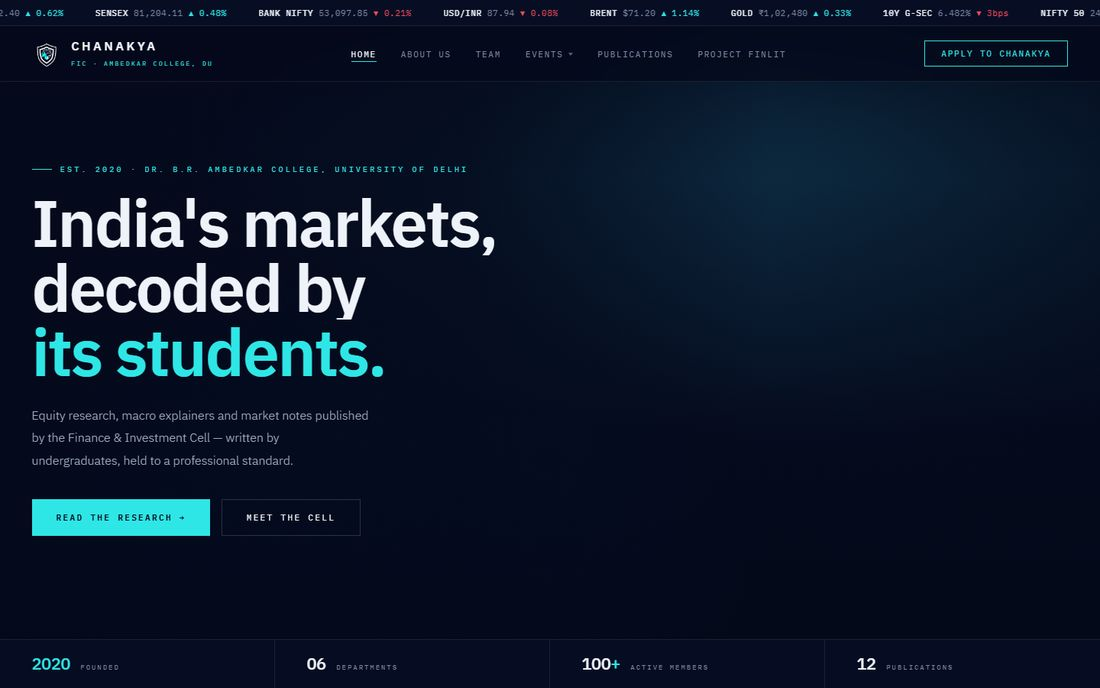
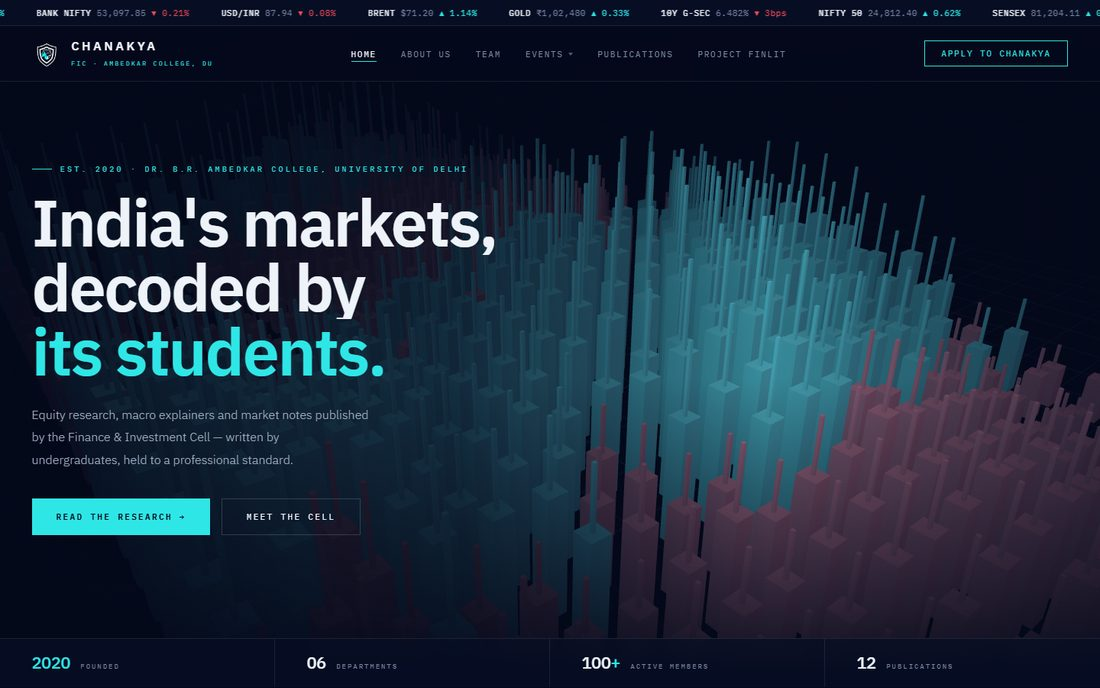
Fix invisible CTA labels; correct Turiya case; better Chanakya/Turiya shots
Bug: .post-body a{color:var(--red)} was added for blog prose links, but its
specificity (0,1,1) beats .btn-red and .cs-live (0,1,0). Every CTA button
inside a post body rendered its label the same red as its own background —
invisible text across 17 pages. Scoped with :not(.btn):not(.cs-live).

Screenshots: the earlier headless captures were wrong. Chanakya's 3D chart
never rendered because WebGL was disabled, and Turiya captured a newsletter
modal instead of the site. Recaptured with --enable-webgl, and drove Chrome
over CDP to dismiss the overlay before shooting.

That also means the Turiya case study was factually wrong — it claimed the
site was in pre-launch behind a waitlist gate. It is not. Removed that, and
added a section on the rituals system and the Khumari counter, which is what
the hero actually shows.

Homepage:
- Hero sub is now a real sentence with a rotating tail; the rotator still
  listed "Premium Branding" after Brand was dropped as a service.
- Added a published-pricing line under What We Do.
- Specialisms demoted from a card grid to a slim link row — the page had
  three consecutive four-card grids and read as one undifferentiated block.

diff --git a/index.html b/index.html
@@ -99,7 +99,7 @@
       <span class="ln"><span>Let Yours</span></span>
       <span class="ln"><span class="fillin">Be Felt.</span></span>
     </h1>
-    <p class="h-sub"><span class="hsub-rot" id="heroRotate">For Brands that want more</span></p>
+    <p class="h-sub">A Delhi studio building <span class="hsub-rot" id="heroRotate">animated websites.</span><br><span class="h-sub-fix">Custom-coded, no templates, every price published.</span></p>
     <div class="h-cta">
       <a href="work.html" class="btn btn-red">See The Work →</a>
       <a href="services.html" class="btn btn-ghost">Services</a>
@@ -161,6 +161,7 @@
       <div>
         <div class="eyebrow">What We Do</div>
         <h2>Four Disciplines.<br>One <span class="red">Studio.</span></h2>
+        <p class="sec-sub">Every price is published — Launch ₹7,500 · Signature ₹15,000 · Flagship ₹32,500.</p>
       </div>
       <a href="services.html" class="sec-link">Full Pricing ↗</a>
     </div>
@@ -193,24 +194,14 @@
   </section>
 
 
-  <!-- ── SPECIALISMS ── -->
-  <section class="home-sec">
-    <div class="sec-head">
-      <div>
-        <div class="eyebrow">Specialisms</div>
-        <h2>What We're Known <span class="red">For.</span></h2>
-      </div>
-      <a href="work.html" class="sec-link">See The Work ↗</a>
-    </div>
-    <div class="flow-row">
-      <a class="flow" href="animated-websites.html"><div class="flow-n">— 01</div><div class="flow-t">Animated Websites</div>
-        <p class="flow-d">Scroll-driven motion, cinematic transitions and physics — written by hand, not imported from a library.</p></a>
-      <a class="flow" href="interactive-websites.html"><div class="flow-n">— 02</div><div class="flow-t">Interactive &amp; Immersive</div>
-        <p class="flow-d">Gated entries, gamified systems and WebGL worlds. Sites people do something in, not scroll past.</p></a>
-      <a class="flow" href="fashion-website-design.html"><div class="flow-n">— 03</div><div class="flow-t">Fashion &amp; Streetwear</div>
-        <p class="flow-d">Editorial product pages and drop mechanics, plus the returns systems that survive launch day.</p></a>
-      <a class="flow" href="portfolio-website-design.html"><div class="flow-n">— 04</div><div class="flow-t">Portfolios &amp; Creatives</div>
-        <p class="flow-d">For designers, artists and studios whose next job depends on ninety seconds with the work.</p></a>
+  <!-- ── SPECIALISMS — a slim row, deliberately not a third card grid ── -->
+  <section class="home-sec spec-sec">
+    <div class="spec-lead">Known For</div>
+    <div class="spec-row">
+      <a href="animated-websites.html">Animated Websites <i>↗</i></a>
+      <a href="interactive-websites.html">Interactive &amp; Immersive <i>↗</i></a>
+      <a href="fashion-website-design.html">Fashion &amp; Streetwear <i>↗</i></a>
+      <a href="portfolio-website-design.html">Portfolios &amp; Creatives <i>↗</i></a>
     </div>
   </section>
 

diff --git a/style.css b/style.css
@@ -431,8 +431,11 @@ footer{border-top:1px solid var(--line);padding:46px max(28px,calc((100vw - 1280
 .post-body li{font-family:'Fraunces',serif;font-weight:400;font-size:1.08rem;line-height:1.8;
   color:#b4b4ba;margin-bottom:11px;position:relative;}
 .post-body li::before{content:'—';position:absolute;left:-20px;color:var(--quiet);}
-.post-body a{color:var(--red);text-decoration:underline;text-underline-offset:3px;}
-.post-body a:hover{color:var(--white);}
+/* Prose links only. Without the :not(), this rule's specificity (0,1,1) beats
+   .btn-red and .cs-live (0,1,0) and paints every CTA button's label the same red
+   as its own background — invisible text on 17 pages. */
+.post-body a:not(.btn):not(.cs-live){color:var(--red);text-decoration:underline;text-underline-offset:3px;}
+.post-body a:not(.btn):not(.cs-live):hover{color:var(--white);}
 .post-table{width:100%;border-collapse:collapse;margin:26px 0;font-family:'Barlow',sans-serif;}
 .post-table th,.post-table td{text-align:left;padding:13px 14px;border-bottom:1px solid var(--line);font-size:.92rem;}
 .post-table th{font-family:'DM Mono',monospace;font-size:var(--label-sm);letter-spacing:.18em;
@@ -504,3 +507,21 @@ footer{border-top:1px solid var(--line);padding:46px max(28px,calc((100vw - 1280
 .f-col a{display:block;font-family:'Barlow',sans-serif;font-weight:300;font-size:.87rem;
   color:var(--muted);padding:4px 0;transition:color var(--t1) var(--e);}
 .f-col a:hover{color:var(--red);}
+
+/* homepage: sub-line under a section heading */
+.sec-sub{font-family:var(--sub);font-weight:300;font-size:.95rem;line-height:1.6;
+  color:var(--muted);margin-top:12px;max-width:520px;}
+.h-sub-fix{color:var(--muted);}
+
+/* homepage: specialism links — a quiet row so it does not read as a third card grid */
+.spec-sec{padding:0 0 76px;}
+.spec-lead{font-family:'DM Mono',monospace;font-size:var(--label-sm);letter-spacing:.28em;
+  text-transform:uppercase;color:var(--quiet);margin-bottom:16px;}
+.spec-row{display:flex;flex-wrap:wrap;gap:2px;background:var(--line);border:1px solid var(--line);}
+.spec-row a{flex:1 1 210px;background:#08080c;padding:21px 22px;display:flex;align-items:center;
+  justify-content:space-between;gap:12px;font-family:'Barlow Condensed',sans-serif;font-weight:700;
+  font-size:1.05rem;letter-spacing:.05em;text-transform:uppercase;color:var(--white);
+  transition:background var(--t2) var(--e),color var(--t1) var(--e);}
+.spec-row a:hover{background:#0e0e15;color:var(--red);}
+.spec-row i{font-style:normal;color:var(--quiet);transition:color var(--t1) var(--e);}
+.spec-row a:hover i{color:var(--red);}

diff --git a/case-turiya.html b/case-turiya.html
@@ -82,8 +82,8 @@
 <p>A full-bleed hero that drops the brand name hard, with no navigation competing for the first three seconds. A product page that presents the leather pant <strong>like art, not a listing</strong> — one garment, given the room a gallery would give it.</p>
 <p>Then the part no theme ships with: a <strong>gamified rituals system</strong>. Nine interactive rituals that earn Khumari points, built into the browsing experience rather than bolted on as a loyalty widget. It rewards attention, which is exactly what a brand about consciousness should do.</p>
 <p>Zero templates. Every element earning its place.</p>
-<h2>Where It Is Now</h2>
-<p>The site is live in <strong>pre-launch</strong>, with the waitlist gate up ahead of the first drop — so what you see at the link below is the signup, not the full storefront.</p>
+<h2>The Rituals System</h2>
+<p>The nine rituals are not a page you visit — they sit <strong>inside the browsing experience</strong>, with a Khumari counter pinned to the corner that tracks how many you have found. It rewards the kind of unhurried attention the brand is actually about, and it is the reason people come back before there is anything to buy.</p>
 
       <h3>Direction</h3>
       <div class="cs-tags"><span>Heavy Condensed Type</span><span>Black · Red · Bone</span><span>Full Bleed</span><span>Deliberate Motion</span><span>Gamified System</span></div>

diff --git a/app.js b/app.js
@@ -232,7 +232,10 @@ function showCat(cat, btn) {
 (function () {
   var el = document.getElementById('heroRotate');
   if (!el) return;
-  var phrases = ['For Brands that want more', 'Animated Websites', 'AI-Powered System', 'Digital Experience', 'Premium Branding'];
+  // rotates the tail of a real sentence — the lead-in is static in the markup.
+  // 'Premium Branding' was still in here after Brand was dropped as a service.
+  var phrases = ['animated websites.', 'interactive experiences.', 'custom storefronts.',
+                 'AI agents that actually work.', 'internal tools.'];
   el.textContent = phrases[0];
   if (prefersReduced()) return;
 
